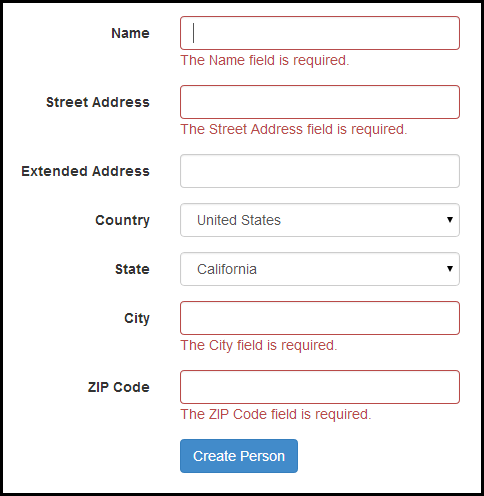
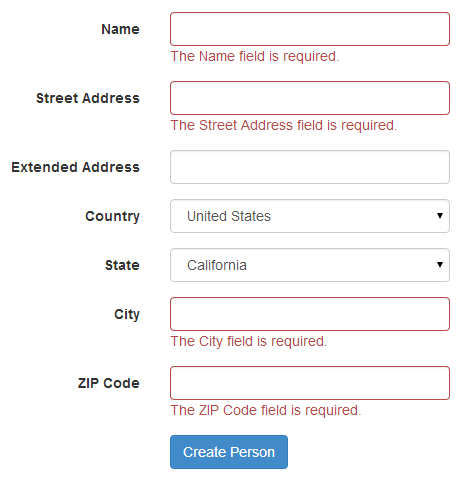
Added a screenshot for to the readme.

diff --git a/README.md b/README.md
@@ -1,6 +1,8 @@
 ## What is this?
 This is an implementation of a mailing address form that explores handling of U.S. and international addresses.
 
+![Address form validating a U.S. address](https://raw.github.com/jonsagara/AddressForm/master/docs/images/form-showing-validation.png)
+
 ## How does it work?
 The following fields make up the form:
 
